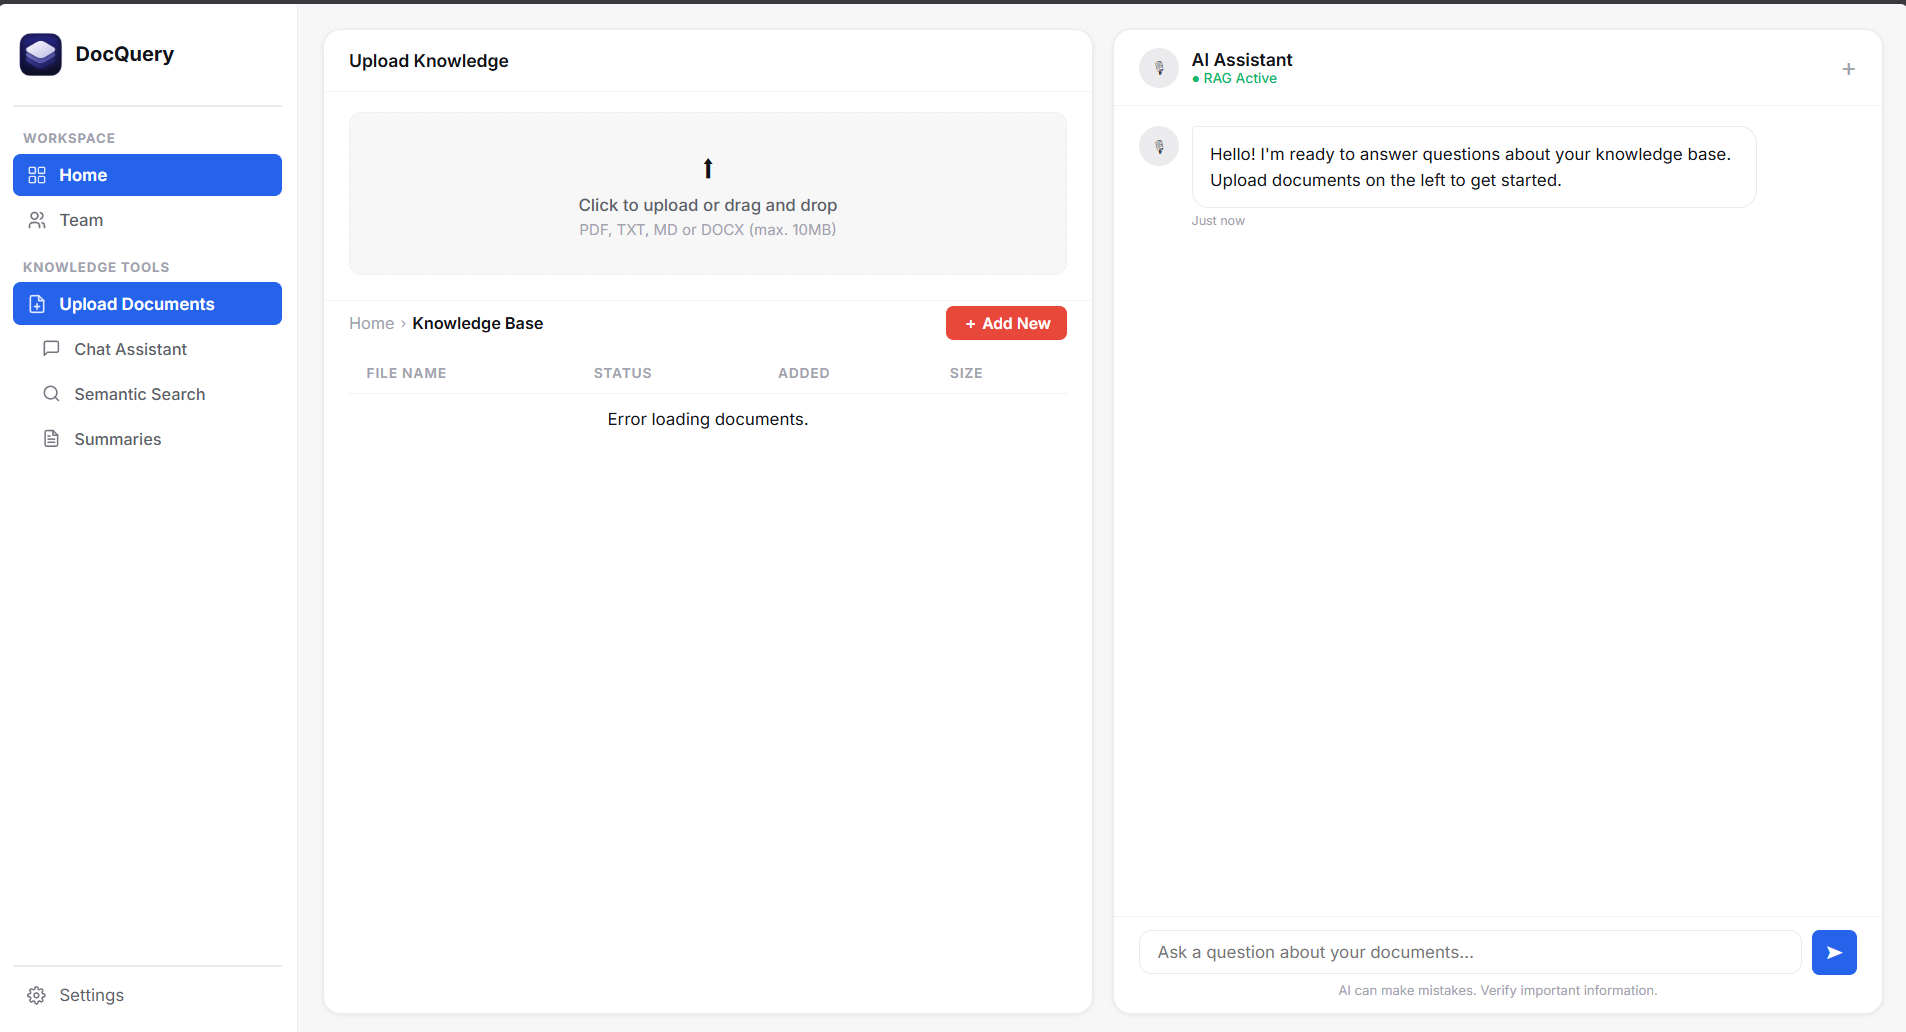
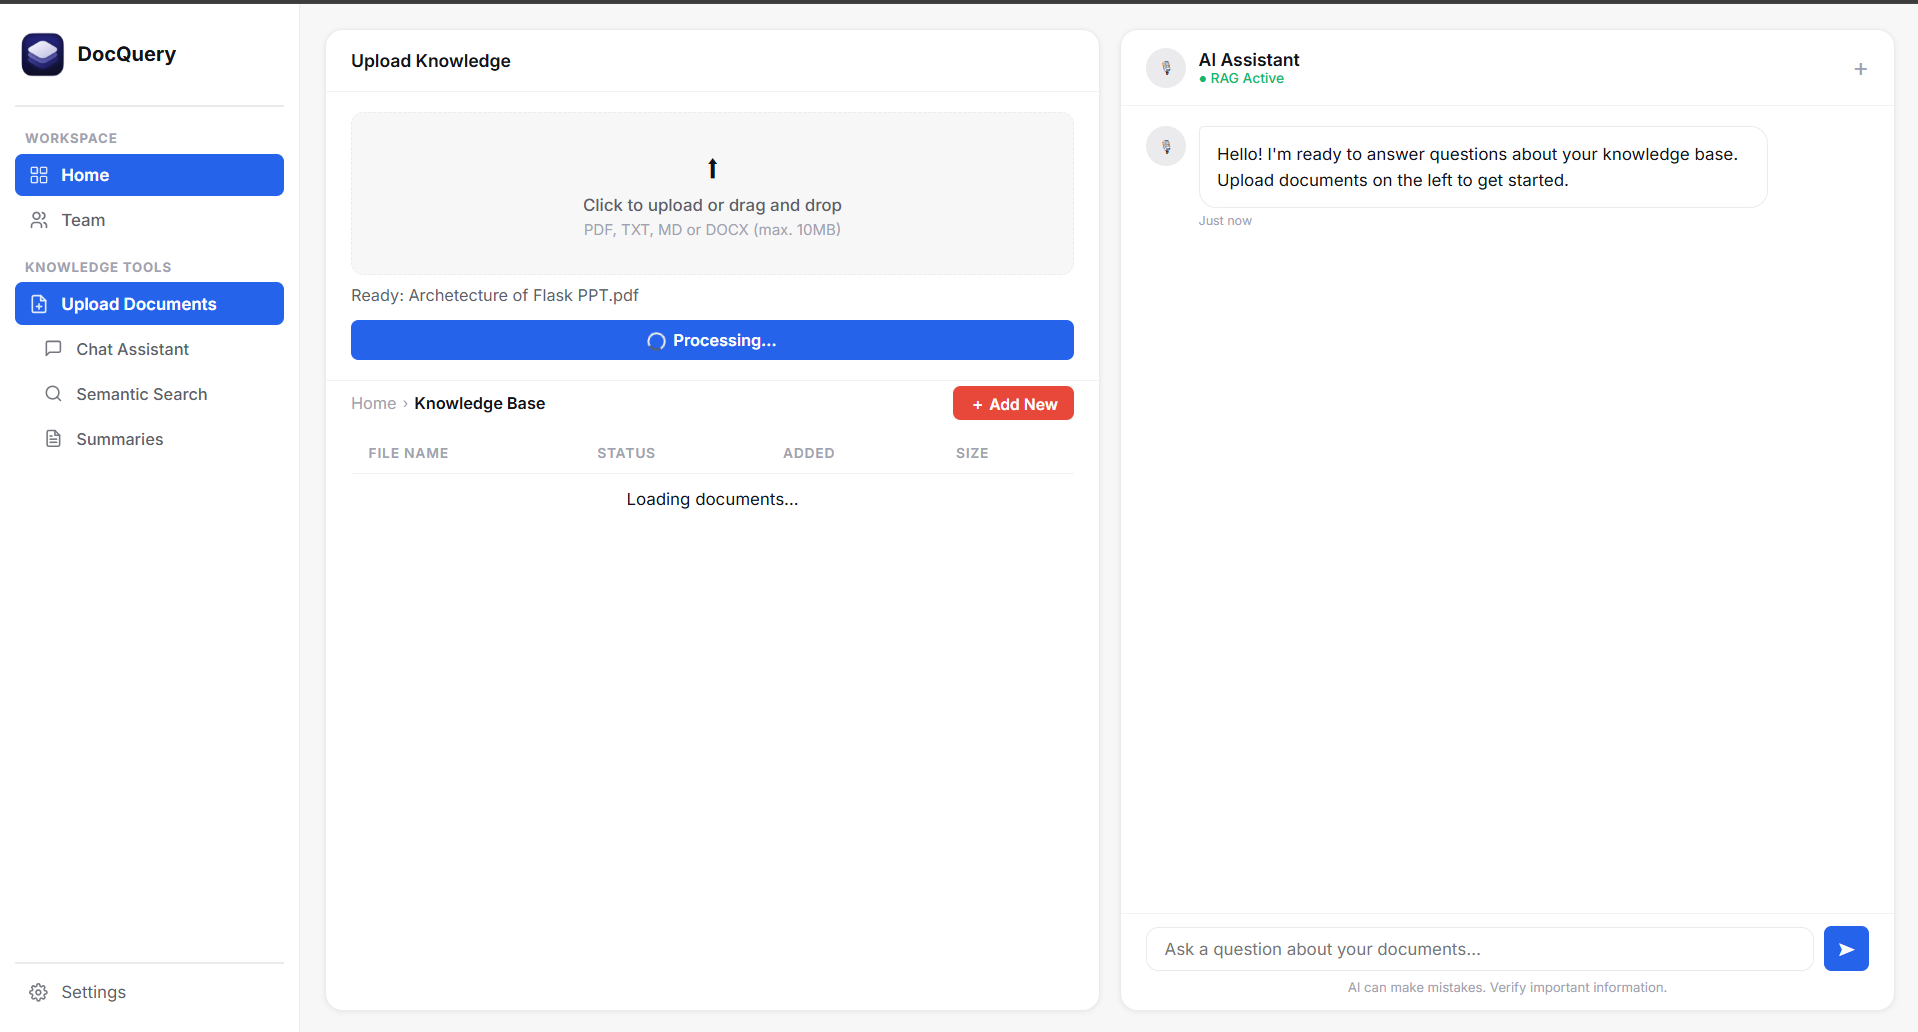
updated project image

diff --git a/src/components/Projects.jsx b/src/components/Projects.jsx
@@ -29,7 +29,7 @@ const projects = [
     description: 'RAG-powered document intelligence platform for semantic search, chat, and summarization.',
     color: 'linear-gradient(135deg, #0f0f0f 0%, #1f1f1f 100%)',
     image: docQuery,
-    link: 'https://hub.docker.com/r/karanunix/code-migration-cli'
+    link: 'https://docquery-40hy.onrender.com'
   },
   {
     id: 4,